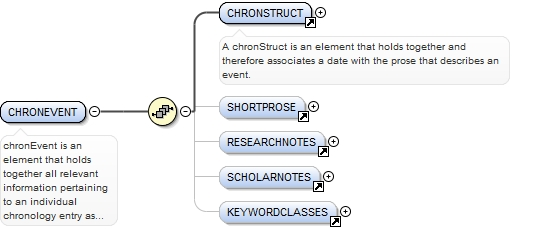
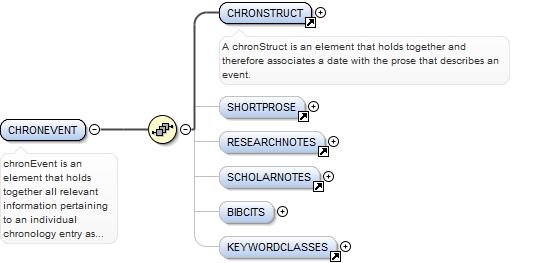
New orlando_event_template.xml

Changed region(s): [[0.0, 0.1528, 0.9306, 1.0], [0.0, 0.5808, 0.2101, 1.0], [0.3602, 0.0, 0.6304, 0.1223]]

diff --git a/schemas/documentation/Orlando_event/index.html b/schemas/documentation/Orlando_event/index.html
@@ -63,6 +63,7 @@
 				'properties_SCHOLARNOTES', 
 				'properties_SHORTPROSE', 
 				'properties_RESEARCHNOTES', 
+				'properties_CHRONEVENT_BIBCITS', 
 				'properties_KEYWORDCLASSES', 
 				'properties_DATE_CALENDAR', 
 				'properties_DATE_CERTAINTY', 
@@ -328,6 +329,7 @@ var sourceBoxes= new Array('source_EVENT',
 				'source_SCHOLARNOTES', 
 				'source_SHORTPROSE', 
 				'source_RESEARCHNOTES', 
+				'source_CHRONEVENT_BIBCITS', 
 				'source_KEYWORDCLASSES', 
 				'source_DATE_CALENDAR', 
 				'source_DATE_CERTAINTY', 
@@ -436,6 +438,7 @@ var instanceBoxes= new Array('instance_EVENT',
 				'instance_SCHOLARNOTES', 
 				'instance_SHORTPROSE', 
 				'instance_RESEARCHNOTES', 
+				'instance_CHRONEVENT_BIBCITS', 
 				'instance_KEYWORDCLASSES');
 var diagramBoxes= new Array('diagram_EVENT', 
 				'diagram_ORLANDOHEADER', 
@@ -493,6 +496,7 @@ var diagramBoxes= new Array('diagram_EVENT',
 				'diagram_SCHOLARNOTES', 
 				'diagram_SHORTPROSE', 
 				'diagram_RESEARCHNOTES', 
+				'diagram_CHRONEVENT_BIBCITS', 
 				'diagram_KEYWORDCLASSES', 
 				'diagram_RESP-attribute');
 var annotationBoxes= new Array('annotations_EVENT', 
@@ -667,6 +671,7 @@ var modelBoxes= new Array('model_EVENT',
 				'model_SCHOLARNOTES', 
 				'model_SHORTPROSE', 
 				'model_RESEARCHNOTES', 
+				'model_CHRONEVENT_BIBCITS', 
 				'model_KEYWORDCLASSES');
 
       
@@ -3385,7 +3390,8 @@ var modelBoxes= new Array('model_EVENT',
                                  <area alt="index.tmp#SHORTPROSE" href="index.html#SHORTPROSE" coords="219,96,319,121" />
                                  <area alt="index.tmp#RESEARCHNOTES" href="index.html#RESEARCHNOTES" coords="219,131,339,156" />
                                  <area alt="index.tmp#SCHOLARNOTES" href="index.html#SCHOLARNOTES" coords="219,166,334,191" />
-                                 <area alt="index.tmp#KEYWORDCLASSES" href="index.html#KEYWORDCLASSES" coords="219,201,351,226" /></map></div>
+                                 <area alt="index.tmp#CHRONEVENT_BIBCITS" href="index.html#CHRONEVENT_BIBCITS" coords="219,201,288,226" />
+                                 <area alt="index.tmp#KEYWORDCLASSES" href="index.html#KEYWORDCLASSES" coords="219,236,351,261" /></map></div>
                         </td>
                      </tr>
                      <tr>
@@ -3424,12 +3430,12 @@ var modelBoxes= new Array('model_EVENT',
                         <td class="firstColumn"><b>Model</b><div class="floatRight"><input id="button_model_CHRONEVENT" type="image" src="img/btM.gif" value="-" onclick="switchState('model_CHRONEVENT');" class="control" /></div>
                         </td>
                         <td>
-                           <div id="model_CHRONEVENT" style="display:block"><b><a href="index.html#CHRONSTRUCT" target="_self" title="No namespace">CHRONSTRUCT</a></b> , <b><a href="index.html#SHORTPROSE" target="_self" title="No namespace">SHORTPROSE{0,1}</a></b> , <b><a href="index.html#RESEARCHNOTES" target="_self" title="No namespace">RESEARCHNOTES{0,1}</a></b> , <b><a href="index.html#SCHOLARNOTES" target="_self" title="No namespace">SCHOLARNOTES{0,1}</a></b> , <b><a href="index.html#KEYWORDCLASSES" target="_self" title="No namespace">KEYWORDCLASSES{0,1}</a></b></div>
+                           <div id="model_CHRONEVENT" style="display:block"><b><a href="index.html#CHRONSTRUCT" target="_self" title="No namespace">CHRONSTRUCT</a></b> , <b><a href="index.html#SHORTPROSE" target="_self" title="No namespace">SHORTPROSE{0,1}</a></b> , <b><a href="index.html#RESEARCHNOTES" target="_self" title="No namespace">RESEARCHNOTES{0,1}</a></b> , <b><a href="index.html#SCHOLARNOTES" target="_self" title="No namespace">SCHOLARNOTES{0,1}</a></b> , <b><a href="index.html#CHRONEVENT_BIBCITS" target="_self" title="No namespace">BIBCITS{0,1}</a></b> , <b><a href="index.html#KEYWORDCLASSES" target="_self" title="No namespace">KEYWORDCLASSES{0,1}</a></b></div>
                         </td>
                      </tr>
                      <tr>
                         <td class="firstColumn"><b>Children</b></td>
-                        <td><b><a href="index.html#CHRONSTRUCT" target="_self" title="No namespace">CHRONSTRUCT</a></b>, <b><a href="index.html#KEYWORDCLASSES" target="_self" title="No namespace">KEYWORDCLASSES</a></b>, <b><a href="index.html#RESEARCHNOTES" target="_self" title="No namespace">RESEARCHNOTES</a></b>, <b><a href="index.html#SCHOLARNOTES" target="_self" title="No namespace">SCHOLARNOTES</a></b>, <b><a href="index.html#SHORTPROSE" target="_self" title="No namespace">SHORTPROSE</a></b></td>
+                        <td><b><a href="index.html#CHRONEVENT_BIBCITS" target="_self" title="No namespace">BIBCITS</a></b>, <b><a href="index.html#CHRONSTRUCT" target="_self" title="No namespace">CHRONSTRUCT</a></b>, <b><a href="index.html#KEYWORDCLASSES" target="_self" title="No namespace">KEYWORDCLASSES</a></b>, <b><a href="index.html#RESEARCHNOTES" target="_self" title="No namespace">RESEARCHNOTES</a></b>, <b><a href="index.html#SCHOLARNOTES" target="_self" title="No namespace">SCHOLARNOTES</a></b>, <b><a href="index.html#SHORTPROSE" target="_self" title="No namespace">SHORTPROSE</a></b></td>
                      </tr>
                      <tr>
                         <td class="firstColumn">
@@ -3445,6 +3451,7 @@ var modelBoxes= new Array('model_EVENT',
   </span><span class="tEl">&lt;SHORTPROSE</span><span class="tEl">&gt;</span><span class="tT" style="white-space:normal">{0,1}</span><span class="tEl">&lt;/SHORTPROSE&gt;</span><span class="tI">
   </span><span class="tEl">&lt;RESEARCHNOTES</span><span class="tEl">&gt;</span><span class="tT" style="white-space:normal">{0,1}</span><span class="tEl">&lt;/RESEARCHNOTES&gt;</span><span class="tI">
   </span><span class="tEl">&lt;SCHOLARNOTES</span><span class="tEl">&gt;</span><span class="tT" style="white-space:normal">{0,1}</span><span class="tEl">&lt;/SCHOLARNOTES&gt;</span><span class="tI">
+  </span><span class="tEl">&lt;BIBCITS</span><span class="tEl">&gt;</span><span class="tT" style="white-space:normal">{0,1}</span><span class="tEl">&lt;/BIBCITS&gt;</span><span class="tI">
   </span><span class="tEl">&lt;KEYWORDCLASSES</span><span class="tEl">&gt;</span><span class="tT" style="white-space:normal">{0,1}</span><span class="tEl">&lt;/KEYWORDCLASSES&gt;</span><span class="tI">
 </span><span class="tEl">&lt;/CHRONEVENT&gt;</span></pre></td>
                                  </tr>
@@ -3471,6 +3478,13 @@ var modelBoxes= new Array('model_EVENT',
       </span><span class="tEl">&lt;xs:element</span><span class="tAN"> minOccurs=</span><span class="tAV">"0"</span><span class="tAN"> ref=</span><span class="tAV">"SHORTPROSE"</span><span class="tEl">/&gt;</span><span class="tI">
       </span><span class="tEl">&lt;xs:element</span><span class="tAN"> minOccurs=</span><span class="tAV">"0"</span><span class="tAN"> ref=</span><span class="tAV">"RESEARCHNOTES"</span><span class="tEl">/&gt;</span><span class="tI">
       </span><span class="tEl">&lt;xs:element</span><span class="tAN"> minOccurs=</span><span class="tAV">"0"</span><span class="tAN"> ref=</span><span class="tAV">"SCHOLARNOTES"</span><span class="tEl">/&gt;</span><span class="tI">
+      </span><span class="tEl">&lt;xs:element</span><span class="tAN"> minOccurs=</span><span class="tAV">"0"</span><span class="tAN"> name=</span><span class="tAV">"BIBCITS"</span><span class="tEl">&gt;</span><span class="tI">
+        </span><span class="tEl">&lt;xs:complexType</span><span class="tEl">&gt;</span><span class="tI">
+          </span><span class="tEl">&lt;xs:sequence</span><span class="tEl">&gt;</span><span class="tI">
+            </span><span class="tEl">&lt;xs:element</span><span class="tAN"> maxOccurs=</span><span class="tAV">"unbounded"</span><span class="tAN"> ref=</span><span class="tAV">"BIBCIT"</span><span class="tEl">/&gt;</span><span class="tI">
+          </span><span class="tEl">&lt;/xs:sequence&gt;</span><span class="tI">
+        </span><span class="tEl">&lt;/xs:complexType&gt;</span><span class="tI">
+      </span><span class="tEl">&lt;/xs:element&gt;</span><span class="tI">
       </span><span class="tEl">&lt;xs:element</span><span class="tAN"> minOccurs=</span><span class="tAV">"0"</span><span class="tAN"> ref=</span><span class="tAV">"KEYWORDCLASSES"</span><span class="tEl">/&gt;</span><span class="tI">
     </span><span class="tEl">&lt;/xs:sequence&gt;</span><span class="tI">
   </span><span class="tEl">&lt;/xs:complexType&gt;</span><span class="tI">
@@ -5701,7 +5715,7 @@ var modelBoxes= new Array('model_EVENT',
                            <div class="floatRight"><input id="button_diagram_BIBCITS" type="image" src="img/btM.gif" value="-" onclick="switchState('diagram_BIBCITS');" class="control" /></div>
                         </td>
                         <td class="diagram">
-                           <div id="diagram_BIBCITS" style="display:block"><img alt="Diagram" border="0" src="img/orlando_event_xsd_Element_BIBCITS.jpeg" usemap="#orlando_event_xsd_Element_BIBCITS" /><map name="orlando_event_xsd_Element_BIBCITS" id="orlando_event_xsd_Element_BIBCITS">
+                           <div id="diagram_BIBCITS" style="display:block"><img alt="Diagram" border="0" src="img/orlando_event_xsd_Element_BIBCITS_1.jpeg" usemap="#orlando_event_xsd_Element_BIBCITS_1" /><map name="orlando_event_xsd_Element_BIBCITS_1" id="orlando_event_xsd_Element_BIBCITS_1">
                                  <area alt="index.tmp#BIBCIT" href="index.html#BIBCIT" coords="188,2,250,27" />
                                  <area alt="index.tmp#RESEARCHNOTE" href="index.html#RESEARCHNOTE" coords="188,96,301,121" /></map></div>
                         </td>
@@ -5877,8 +5891,8 @@ var modelBoxes= new Array('model_EVENT',
                            <div id="usedBy_BIBCIT" style="display:block">
                               <table class="usedByTable">
                                  <tr>
-                                    <td class="firstColumn">Element </td>
-                                    <td><b><a href="index.html#BIBCITS" target="_self" title="No namespace">BIBCITS</a></b></td>
+                                    <td class="firstColumn">Elements </td>
+                                    <td><b><a href="index.html#BIBCITS" target="_self" title="No namespace">BIBCITS</a></b>, <b><a href="index.html#CHRONEVENT_BIBCITS" target="_self" title="No namespace">CHRONEVENT/BIBCITS</a></b></td>
                                  </tr>
                               </table>
                            </div>
@@ -11532,6 +11546,112 @@ var modelBoxes= new Array('model_EVENT',
   </span><span class="tEl">&lt;xs:complexType</span><span class="tEl">&gt;</span><span class="tI">
     </span><span class="tEl">&lt;xs:sequence</span><span class="tEl">&gt;</span><span class="tI">
       </span><span class="tEl">&lt;xs:element</span><span class="tAN"> maxOccurs=</span><span class="tAV">"unbounded"</span><span class="tAN"> ref=</span><span class="tAV">"RESEARCHNOTE"</span><span class="tEl">/&gt;</span><span class="tI">
+    </span><span class="tEl">&lt;/xs:sequence&gt;</span><span class="tI">
+  </span><span class="tEl">&lt;/xs:complexType&gt;</span><span class="tI">
+</span><span class="tEl">&lt;/xs:element&gt;</span></pre></td>
+                                 </tr>
+                              </table>
+                           </div>
+                        </td>
+                     </tr>
+                  </tbody>
+               </table>
+            </td>
+            <td class="rt_lineRight"></td>
+         </tr>
+         <tr>
+            <td class="rt_cornerBottomLeft"></td>
+            <td class="rt_lineBottom"></td>
+            <td class="rt_cornerBottomRight"></td>
+         </tr>
+      </table>
+      <div class="toTop"><a href="#INDEX"> [ top ] </a></div><a id="CHRONEVENT_BIBCITS"></a><div class="componentTitle">Element <span class="qname"><b><a href="index.html#CHRONEVENT" target="_self" title="No namespace">CHRONEVENT</a></b> / BIBCITS</span></div>
+      <table class="rt">
+         <tr>
+            <td class="rt_cornerTopLeft"></td>
+            <td class="rt_lineTop"></td>
+            <td class="rt_cornerTopRight"></td>
+         </tr>
+         <tr>
+            <td class="rt_lineLeft"></td>
+            <td class="rt_content">
+               <table class="component">
+                  <tbody>
+                     <tr>
+                        <td class="firstColumn"><b>Namespace</b></td>
+                        <td>No namespace</td>
+                     </tr>
+                     <tr>
+                        <td class="firstColumn">
+                           <div class="floatLeft"><b>Diagram</b></div>
+                           <div class="floatRight"><input id="button_diagram_CHRONEVENT_BIBCITS" type="image" src="img/btM.gif" value="-" onclick="switchState('diagram_CHRONEVENT_BIBCITS');" class="control" /></div>
+                        </td>
+                        <td class="diagram">
+                           <div id="diagram_CHRONEVENT_BIBCITS" style="display:block"><img alt="Diagram" border="0" src="img/orlando_event_xsd_Element_BIBCITS.jpeg" usemap="#orlando_event_xsd_Element_BIBCITS" /><map name="orlando_event_xsd_Element_BIBCITS" id="orlando_event_xsd_Element_BIBCITS">
+                                 <area alt="index.tmp#BIBCIT" href="index.html#BIBCIT" coords="188,6,250,31" /></map></div>
+                        </td>
+                     </tr>
+                     <tr>
+                        <td class="firstColumn">
+                           <div class="floatLeft"><b>Properties</b></div>
+                           <div class="floatRight"><input id="button_properties_CHRONEVENT_BIBCITS" type="image" src="img/btM.gif" value="-" onclick="switchState('properties_CHRONEVENT_BIBCITS');" class="control" /></div>
+                        </td>
+                        <td>
+                           <div id="properties_CHRONEVENT_BIBCITS" style="display:block">
+                              <table class="propertiesTable">
+                                 <tr>
+                                    <td class="firstColumn" style="white-space: nowrap;">content</td>
+                                    <td><b>complex</b></td>
+                                 </tr>
+                                 <tr>
+                                    <td class="firstColumn" style="white-space: nowrap;">minOccurs</td>
+                                    <td><b>0</b></td>
+                                 </tr>
+                              </table>
+                           </div>
+                        </td>
+                     </tr>
+                     <tr>
+                        <td class="firstColumn"><b>Model</b><div class="floatRight"><input id="button_model_CHRONEVENT_BIBCITS" type="image" src="img/btM.gif" value="-" onclick="switchState('model_CHRONEVENT_BIBCITS');" class="control" /></div>
+                        </td>
+                        <td>
+                           <div id="model_CHRONEVENT_BIBCITS" style="display:block"><b><a href="index.html#BIBCIT" target="_self" title="No namespace">BIBCIT+</a></b></div>
+                        </td>
+                     </tr>
+                     <tr>
+                        <td class="firstColumn"><b>Children</b></td>
+                        <td><b><a href="index.html#BIBCIT" target="_self" title="No namespace">BIBCIT</a></b></td>
+                     </tr>
+                     <tr>
+                        <td class="firstColumn">
+                           <div class="floatLeft"><b>Instance</b></div>
+                           <div class="floatRight"><input id="button_instance_CHRONEVENT_BIBCITS" type="image" src="img/btM.gif" value="-" onclick="switchState('instance_CHRONEVENT_BIBCITS');" class="control" /></div>
+                        </td>
+                        <td>
+                           <div id="instance_CHRONEVENT_BIBCITS" style="display:block">
+                              <table style="table-layout:fixed;white-space:pre-wrap;white-space:-moz-pre-wrap;white-space:-pre-wrap;white-space: -o-pre-wrap;word-wrap: break-word;_white-space:pre;" class="preWrapContainer">
+                                 <tr>
+                                    <td width="100%"><pre><span class="tEl">&lt;BIBCITS</span><span class="tEl">&gt;</span><span class="tI">
+  </span><span class="tEl">&lt;BIBCIT</span><span class="tT"> </span><span class="tAN">DBREF=</span><span class="tAV">""</span><span class="tT"> </span><span class="tAN">PLACEHOLDER=</span><span class="tAV">""</span><span class="tT"> </span><span class="tAN">QTDIN=</span><span class="tAV">""</span><span class="tT"> </span><span class="tAN">REF=</span><span class="tAV">""</span><span class="tEl">&gt;</span><span class="tT" style="white-space:normal">{1,unbounded}</span><span class="tEl">&lt;/BIBCIT&gt;</span><span class="tI">
+</span><span class="tEl">&lt;/BIBCITS&gt;</span></pre></td>
+                                 </tr>
+                              </table>
+                           </div>
+                        </td>
+                     </tr>
+                     <tr>
+                        <td class="firstColumn">
+                           <div class="floatLeft"><b>Source</b></div>
+                           <div class="floatRight"><input id="button_source_CHRONEVENT_BIBCITS" type="image" src="img/btM.gif" value="-" onclick="switchState('source_CHRONEVENT_BIBCITS');" class="control" /></div>
+                        </td>
+                        <td>
+                           <div id="source_CHRONEVENT_BIBCITS" style="display:block">
+                              <table style="table-layout:fixed;white-space:pre-wrap;white-space:-moz-pre-wrap;white-space:-pre-wrap;white-space: -o-pre-wrap;word-wrap: break-word;_white-space:pre;" class="preWrapContainer">
+                                 <tr>
+                                    <td width="100%"><pre><span class="tEl">&lt;xs:element</span><span class="tAN"> minOccurs=</span><span class="tAV">"0"</span><span class="tAN"> name=</span><span class="tAV">"BIBCITS"</span><span class="tEl">&gt;</span><span class="tI">
+  </span><span class="tEl">&lt;xs:complexType</span><span class="tEl">&gt;</span><span class="tI">
+    </span><span class="tEl">&lt;xs:sequence</span><span class="tEl">&gt;</span><span class="tI">
+      </span><span class="tEl">&lt;xs:element</span><span class="tAN"> maxOccurs=</span><span class="tAV">"unbounded"</span><span class="tAN"> ref=</span><span class="tAV">"BIBCIT"</span><span class="tEl">/&gt;</span><span class="tI">
     </span><span class="tEl">&lt;/xs:sequence&gt;</span><span class="tI">
   </span><span class="tEl">&lt;/xs:complexType&gt;</span><span class="tI">
 </span><span class="tEl">&lt;/xs:element&gt;</span></pre></td>

diff --git a/schemas/documentation/Orlando_event/comp.html b/schemas/documentation/Orlando_event/comp.html
@@ -63,6 +63,7 @@
 				'properties_SCHOLARNOTES', 
 				'properties_SHORTPROSE', 
 				'properties_RESEARCHNOTES', 
+				'properties_CHRONEVENT_BIBCITS', 
 				'properties_KEYWORDCLASSES', 
 				'properties_DATE_CALENDAR', 
 				'properties_DATE_CERTAINTY', 
@@ -328,6 +329,7 @@ var sourceBoxes= new Array('source_EVENT',
 				'source_SCHOLARNOTES', 
 				'source_SHORTPROSE', 
 				'source_RESEARCHNOTES', 
+				'source_CHRONEVENT_BIBCITS', 
 				'source_KEYWORDCLASSES', 
 				'source_DATE_CALENDAR', 
 				'source_DATE_CERTAINTY', 
@@ -436,6 +438,7 @@ var instanceBoxes= new Array('instance_EVENT',
 				'instance_SCHOLARNOTES', 
 				'instance_SHORTPROSE', 
 				'instance_RESEARCHNOTES', 
+				'instance_CHRONEVENT_BIBCITS', 
 				'instance_KEYWORDCLASSES');
 var diagramBoxes= new Array('diagram_EVENT', 
 				'diagram_ORLANDOHEADER', 
@@ -493,6 +496,7 @@ var diagramBoxes= new Array('diagram_EVENT',
 				'diagram_SCHOLARNOTES', 
 				'diagram_SHORTPROSE', 
 				'diagram_RESEARCHNOTES', 
+				'diagram_CHRONEVENT_BIBCITS', 
 				'diagram_KEYWORDCLASSES', 
 				'diagram_RESP-attribute');
 var annotationBoxes= new Array('annotations_EVENT', 
@@ -667,6 +671,7 @@ var modelBoxes= new Array('model_EVENT',
 				'model_SCHOLARNOTES', 
 				'model_SHORTPROSE', 
 				'model_RESEARCHNOTES', 
+				'model_CHRONEVENT_BIBCITS', 
 				'model_KEYWORDCLASSES');
 
       

diff --git a/schemas/documentation/Orlando_event/ns.html b/schemas/documentation/Orlando_event/ns.html
@@ -63,6 +63,7 @@
 				'properties_SCHOLARNOTES', 
 				'properties_SHORTPROSE', 
 				'properties_RESEARCHNOTES', 
+				'properties_CHRONEVENT_BIBCITS', 
 				'properties_KEYWORDCLASSES', 
 				'properties_DATE_CALENDAR', 
 				'properties_DATE_CERTAINTY', 
@@ -328,6 +329,7 @@ var sourceBoxes= new Array('source_EVENT',
 				'source_SCHOLARNOTES', 
 				'source_SHORTPROSE', 
 				'source_RESEARCHNOTES', 
+				'source_CHRONEVENT_BIBCITS', 
 				'source_KEYWORDCLASSES', 
 				'source_DATE_CALENDAR', 
 				'source_DATE_CERTAINTY', 
@@ -436,6 +438,7 @@ var instanceBoxes= new Array('instance_EVENT',
 				'instance_SCHOLARNOTES', 
 				'instance_SHORTPROSE', 
 				'instance_RESEARCHNOTES', 
+				'instance_CHRONEVENT_BIBCITS', 
 				'instance_KEYWORDCLASSES');
 var diagramBoxes= new Array('diagram_EVENT', 
 				'diagram_ORLANDOHEADER', 
@@ -493,6 +496,7 @@ var diagramBoxes= new Array('diagram_EVENT',
 				'diagram_SCHOLARNOTES', 
 				'diagram_SHORTPROSE', 
 				'diagram_RESEARCHNOTES', 
+				'diagram_CHRONEVENT_BIBCITS', 
 				'diagram_KEYWORDCLASSES', 
 				'diagram_RESP-attribute');
 var annotationBoxes= new Array('annotations_EVENT', 
@@ -667,6 +671,7 @@ var modelBoxes= new Array('model_EVENT',
 				'model_SCHOLARNOTES', 
 				'model_SHORTPROSE', 
 				'model_RESEARCHNOTES', 
+				'model_CHRONEVENT_BIBCITS', 
 				'model_KEYWORDCLASSES');
 
       
